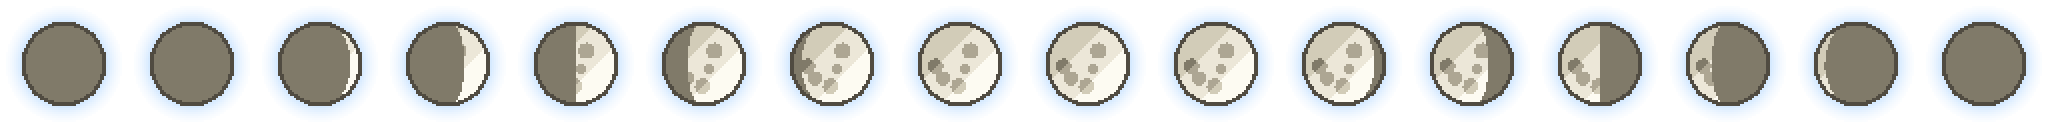
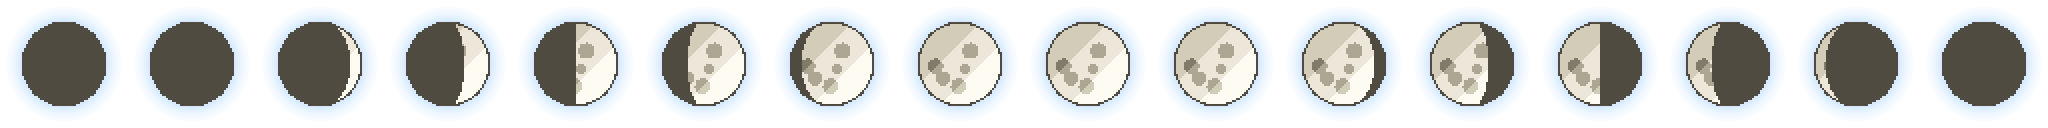
La luna sin reborde y girando, y el aviso del sismo con degradado de verdad
LUNA. Tres cosas:

  El canto baja a UN PIXEL. Era una banda del 12% del radio, unos cinco
  pixeles de origen, y a tamano de juego se comia el disco por fuera: la
  luna parecia una moneda con reborde en vez de una esfera.

  La cara en sombra pasa al MISMO tono que el canto. Llevaba el penultimo
  de la paleta y el canto el ultimo, asi que la parte oscura tenia dentro un
  segundo borde todavia mas oscuro — dos fronteras en una pieza que solo
  tiene una. Ahora se funden por ese lado y el filo se ve donde hace falta:
  contra la cara iluminada.

  Y GIRAN. Lo tuve sin girar a proposito y me equivocaba: pense que rotar
  haria bailar los crateres y tapraria la fase, pero 0,55 rad/s es una
  vuelta cada 11,4 s contra los 4,5 s que tarda la orbita. Es 2,5 veces mas
  lento, asi que no compite con nada; lo que se gana es que la luna deje de
  parecer una pegatina clavada al aire.

SISMO. Un 30% mas transparente —el cuarto ajuste de ese numero— y el disco
plano pasa a ser un degradado de seis tonos, de arena clara en el filo a
brasa oscura en el centro.

Se pinta un anillo por tono, del mas grande al mas pequeno. Por anillos y
no con createRadialGradient porque un gradiente asigna memoria cada vez que
se crea y esto se pinta sesenta veces por segundo; y los tonos van escritos
en datos/enemigos.js en vez de interpolarse en caliente, que seria componer
cadenas rgba() dentro del bucle de dibujado.

EL ALFA POR CAPA NO ES EL ALFA QUE SE VE, y ahi estuvo el trabajo: seis
[…]

diff --git a/js/entidades/disparo.js b/js/entidades/disparo.js
@@ -49,6 +49,16 @@ function crearDisparo() {
     // del modo 'zona' de sistemas/zonaDanyo.js, que solo daña enemigos.
     charco: false, duracion: 0, intervalo: 0, relojTic: 0,
     color: '#ffffff', fase: 0,
+    // TONOS DEL AVISO. Un aviso de area se dibujaba con un solo color a alfa
+    // plano, o sea un disco de plastilina. Con varios tonos se pinta en anillos
+    // concentricos y sale un degradado: del mas claro por fuera al mas caliente
+    // en el centro. Ver el bloque del sismo en `dibujar`.
+    //
+    // Son cadenas ya escritas en datos/enemigos.js y NO se interpolan en
+    // caliente: componer un `rgba(...)` por anillo y por fotograma seria crear
+    // cadenas dentro del bucle de dibujado, que es justo lo que este motor
+    // evita en todas partes.
+    tonos: null,
     // ESTELA Y NÚCLEO. `estela` es el color del rastro que va dejando y
     // `nucleo` el del brillo de dentro. Sin ellos se usa el color del disparo,
     // que es lo que hacían todos hasta ahora: una bola lisa con una raya
@@ -108,6 +118,7 @@ export class Disparos {
     d.color = def.color;
     d.estela = def.estela || null;
     d.nucleo = def.nucleo || null;
+    d.tonos = null;             // campo compartido: solo lo usa el sismo
     d.aviso = 0;
     d.sismo = false;
     d.charco = false;           // por si este hueco del pool venía de un charco
@@ -147,6 +158,7 @@ export class Disparos {
     d.sismo = true;
     d.charco = false;           // por si este hueco del pool venía de un charco
     d.estela = null; d.nucleo = null;   // campos compartidos: ver `lanzar`
+    d.tonos = def.tonos || null;
     d.hoja = null;
     d.color = def.color;
     // Fase de giro, sorteada al lanzarla: dos piedras seguidas no pueden salir
@@ -179,6 +191,7 @@ export class Disparos {
     d.charco = true;
     d.sismo = false;
     d.estela = null; d.nucleo = null;   // campos compartidos: ver `lanzar`
+    d.tonos = null;
     d.color = def.color;
     d.fase = 0;
     // Mismo criterio que Zonas.crear: si `sprite` nombra una entrada del atlas
@@ -545,23 +558,56 @@ export class Disparos {
         // va a golpear. La información sigue estando entera; lo que se va es el
         // subrayado.
         //
-        // Y UN 30% MÁS TRANSPARENTE, que es el tercer ajuste de este número.
+        // OTRO 30% MÁS TRANSPARENTE, que es el cuarto ajuste de este número.
         // El recorrido, por si hay que volver a moverlo:
         //
         //   0,22-0,42   con el aro puesto, que era quien sostenía el aviso
         //   0,28-0,58   al quitar el aro, para que la mancha lo sostuviera sola
-        //   0,20-0,41   ahora: se pasó de mancha y tapaba el suelo
+        //   0,20-0,41   se pasó de mancha y tapaba el suelo
+        //   0,14-0,28   ahora
         //
         // Lo que un aviso tiene que hacer es decir DÓNDE va a caer, no sustituir
         // al terreno mientras avisa. Con la mancha muy opaca, el jugador pierde
         // de vista lo que hay dentro del círculo justo cuando más falta le hace
         // para decidir por dónde salir.
+        //
+        // Y AHORA ES UN DEGRADADO, NO UN DISCO PLANO. Se pinta un anillo por
+        // tono, del más grande y claro al más pequeño y caliente, sumando alfa
+        // donde se solapan: eso da una rampa suave del canto al centro con la
+        // variedad de color que un solo `fillStyle` no puede dar.
+        //
+        // Por anillos concéntricos y no con `createRadialGradient`: un gradiente
+        // asigna memoria cada vez que se crea, y esto se pinta sesenta veces por
+        // segundo mientras dura el aviso. Es el mismo motivo por el que la
+        // escarcha de VFX es un rectángulo plano y no un degradado.
         const prog = 1 - d.restante / d.aviso;
-        ctx.globalAlpha = 0.196 + 0.21 * prog;
-        ctx.fillStyle = d.color;
-        ctx.beginPath();
-        ctx.arc(x, y, d.radio * prog, 0, Math.PI * 2);
-        ctx.fill();
+        const rMax = d.radio * prog;
+        if (d.tonos) {
+          const n = d.tonos.length;
+          for (let t = 0; t < n; t++) {
+            // El más claro ocupa el círculo entero y cada siguiente uno menor,
+            // así que en el centro se han sumado los n y en el filo solo el
+            // primero. La rampa sale de la SUMA, no de una interpolación.
+            const f = 1 - t / n;
+            // EL ALFA DE CADA ANILLO ES BAJO PORQUE SE SUMAN. Seis capas de
+            // 0,14 no dan 0,14: dan 1-(1-0,14)^6 = 0,60, o sea MÁS opaco que
+            // el disco plano de antes, que es lo contrario de lo que se pide.
+            // Lo que hay que fijar es la opacidad COMPUESTA, y de ahí sale este
+            // 0,023-0,067 por capa: el centro acaba en 0,284 —el 70% del 0,41
+            // que tenía— y el filo en 0,07, casi transparente.
+            ctx.globalAlpha = (0.023 + 0.0442 * prog) * (0.55 + 0.45 * f);
+            ctx.fillStyle = d.tonos[t];
+            ctx.beginPath();
+            ctx.arc(x, y, rMax * f, 0, Math.PI * 2);
+            ctx.fill();
+          }
+        } else {
+          ctx.globalAlpha = 0.137 + 0.147 * prog;
+          ctx.fillStyle = d.color;
+          ctx.beginPath();
+          ctx.arc(x, y, rMax, 0, Math.PI * 2);
+          ctx.fill();
+        }
         ctx.globalAlpha = 1;
 
         // Y LA PIEDRA, VOLANDO.

diff --git a/js/datos/enemigos.js b/js/datos/enemigos.js
@@ -232,7 +232,14 @@ export const ENEMIGOS = {
   // de castigar dónde estabas a castigar quedarse quieto, que es lo que se le
   // pedía desde el principio.
   ciclope:    { sprite:'ciclope',    rol:'tanque',    xp:45, vida:950,   velocidad:7,  danyo:30, radio:11.8, masa:20.0, vuela:false, inmuneEmpuje:true,  movimiento:'directo',
-                ataque: { tipo:'sismo', danyo:24, cadencia:4.2, alcance:230, aviso:0.85, radio:22.5, azarObjetivo:0.33, color:'#c98a3a', spriteReventon:'reventonTierra' } },
+                // `tonos`: la rampa del aviso, del canto al centro. Seis pasos
+                // de arena clara a brasa oscura, que es lo que hace el suelo
+                // cuando va a reventar. Van escritos y no interpolados en
+                // caliente para no crear cadenas dentro del bucle de dibujado
+                // (ver el sismo en entidades/disparo.js).
+                ataque: { tipo:'sismo', danyo:24, cadencia:4.2, alcance:230, aviso:0.85, radio:22.5, azarObjetivo:0.33, color:'#c98a3a',
+                          tonos:['#e8c894','#d8a95e','#c98a3a','#a86524','#7d4415','#52290c'],
+                          spriteReventon:'reventonTierra' } },
   minotauro:  { sprite:'minotauro',  rol:'tanque',    xp:24, vida:520,   velocidad:15, danyo:21, radio:10.9, masa:14.0, vuela:false, inmuneEmpuje:false, movimiento:'acecho'    },
 
   // --- Élite: suelta cofre garantizado ------------------------------------

diff --git a/js/datos/armas.js b/js/datos/armas.js
@@ -1108,9 +1108,16 @@ export const ARMAS = {
     // completo. No hace falta declarar nada más: sale de `frames` en el atlas
     // (ver dibujarOrbitales en sistemas/armas.js).
     //
-    // Y sin `giroOrbital`, ahora con más motivo que antes: una luna que además
-    // rotara sobre sí misma haría bailar los cráteres y se perdería la fase,
-    // que es lo único que hay que leer.
+    // Y GIRAN SOBRE SÍ MISMAS. Lo tuve sin girar a propósito y me equivocaba de
+    // miedo: pensé que rotar haría bailar los cráteres y taparía la fase. Pero
+    // 0,55 rad/s es una vuelta cada once segundos —más lento que la propia
+    // órbita, que da una vuelta cada cuatro— así que no compite con nada: la
+    // fase sigue leyéndose y lo que se gana es que la luna deje de parecer una
+    // pegatina clavada al aire.
+    //
+    // Despacio y en el sentido de la órbita, que es como gira un satélite de
+    // verdad: acompaña, no marea.
+    giroOrbital: 0.55,
     niveles: [{}, { escudos: 1, danyo: 5, radioEscudo: 1 },
               { radioOrbita: 8, danyo: 6, radioEscudo: 2 },
               { danyo: 8, radioEscudo: 1 },
